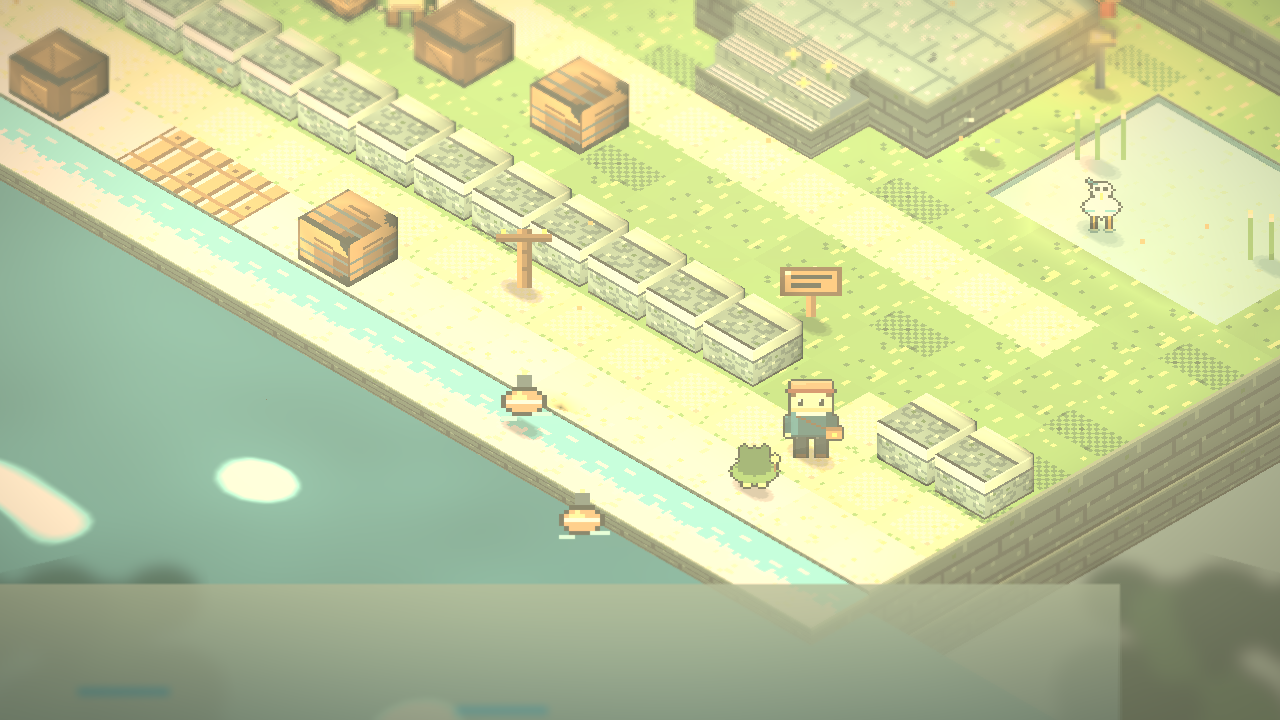
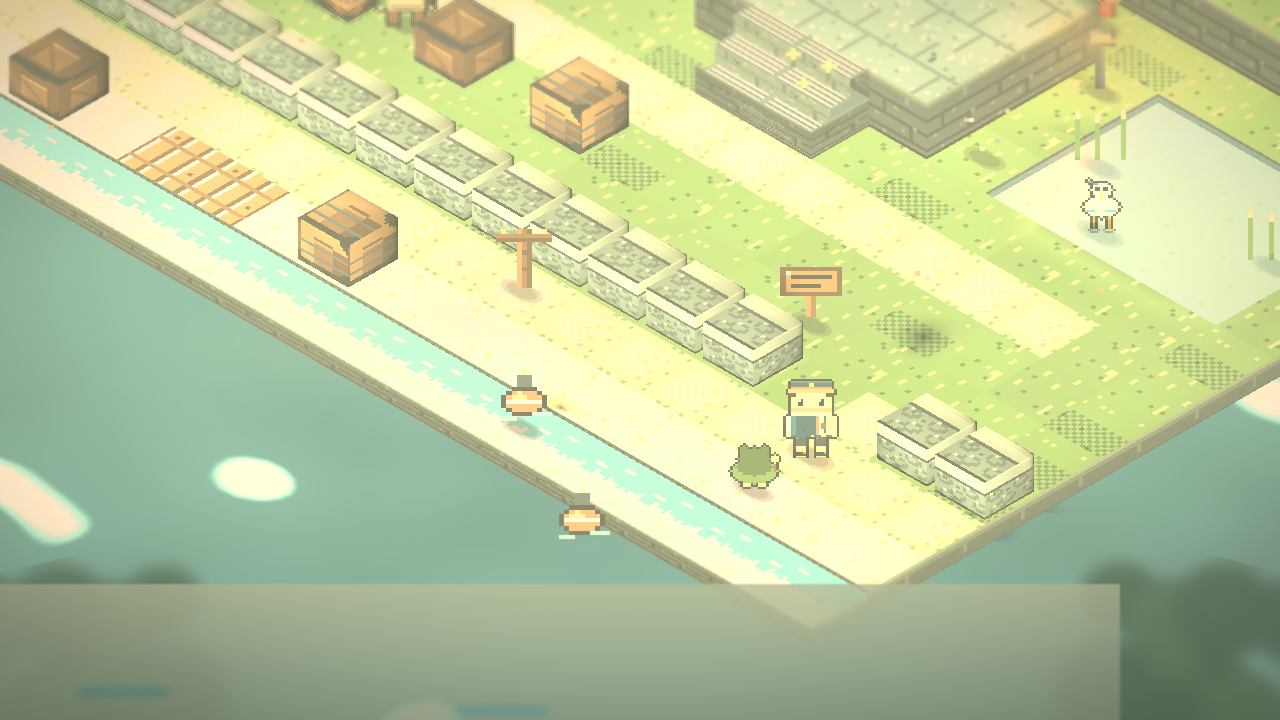
主角視覺定案：島嶼旅人（海青探險帽・不對稱背心・苔綠捲口背包）
- 世界 Sprite 重繪（32×48 骨架擴充）：海青短簷探險帽（沙簷＋珊瑚縫線＋
  黃銅浪芽徽＋帽下海風髮束）、米白機能襯衫＋深藍綠不對稱背心（海藍側片
  ＋珊瑚閉合縫線＋前袋）、石板灰及膝短褲＋露小腿＋越野鞋（沙底珊瑚提耳）、
  正面雙肩帶＋旅伴牌、背面苔綠捲口背包（捲口摺/壓縮帶/沙底/珊瑚束繩/
  浪芽徽/照護側袋/捲毯）、腰帶銅釦＋黃銅潮汐羅盤
- 立繪同步：探險帽構造、琥珀綠瞳孔（睜眼表情）、不對稱斜瀏海與風吹髮尾、
  背心配色＋珊瑚縫線＋苔綠背帶；移除舊珊瑚紅帽（避開紅白帽禁區）
- 場景修正：煙囪格補屋面（不再浮空開洞）、屋脊煙改柔霧點（不再成斜虛線）、
  島外海面四向延伸（島緣不再懸在天空上）
- world-bible 補主角定案設定表；三路線＋海邊來回 E2E 全過、2011 asserts

diff --git a/docs/world-bible.md b/docs/world-bible.md
@@ -29,10 +29,23 @@
 旅伴牌**不能**收納伴獸、不能投擲、不發射任何捕捉光線；
 伴獸平時直接跟隨旅人行走。
 
-## 3. 玩家
+## 3. 玩家（主角定案設定）
 
-剛取得旅行資格的少年或少女。目標不是拯救世界，也不是成為冠軍——
-第一個目標很簡單：**認養第一隻伴獸，與牠平安通過離村考驗，正式踏上群島旅程。**
+剛取得旅行資格的 15 歲島嶼旅人。開朗、好奇、可靠，不過度熱血。
+目標不是拯救世界，也不是成為冠軍——第一個目標很簡單：
+**認養第一隻伴獸，與牠平安通過離村考驗，正式踏上群島旅程。**
+
+| 項目 | 設計 |
+|---|---|
+| 髮／眼 | 深棕黑海風亂髮（帽下露髮束）；琥珀綠大眼 |
+| 帽 | 海青（深藍綠）短簷探險帽＋沙色帽簷＋珊瑚橘縫線＋黃銅「浪花＋嫩芽」徽 |
+| 上身 | 米白短袖機能襯衫＋深藍綠**不對稱**旅行背心（海藍側片、珊瑚縫線、前袋×2） |
+| 下身 | 石板灰及膝機能短褲＋深藍綠腰帶（銅釦） |
+| 鞋 | 深色越野鞋＋沙色鞋底＋珊瑚提耳 |
+| 背包 | 苔綠防水捲口背包：捲口摺、壓縮帶、沙色底、珊瑚束繩、照護工具側袋、底部捲毯、浪芽徽 |
+| 配件 | 黃銅潮汐羅盤（腰間）、旅伴牌（肩帶）、地圖筒、水壺 |
+| 主色 | 深藍綠・海藍・沙米色；點綴：珊瑚橘・黃銅金 |
+| 禁止 | 紅白帽、球形帽徽、素藍背心、綠色方形書包、任何既有訓練家可辨識設計 |
 
 ## 4. 第一章舞台：潮芽伴獸之家
 
